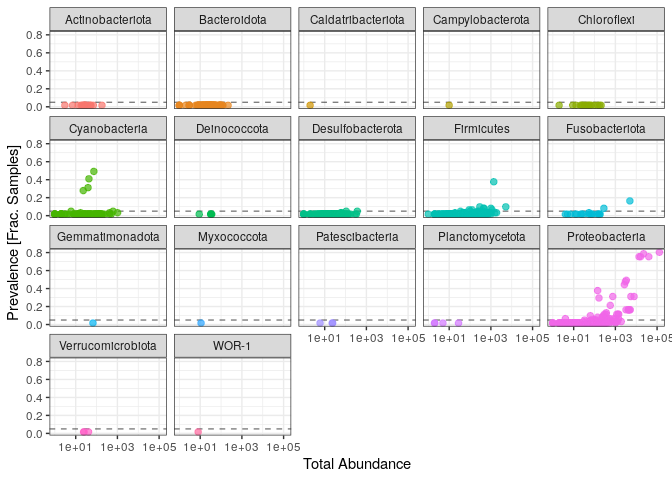
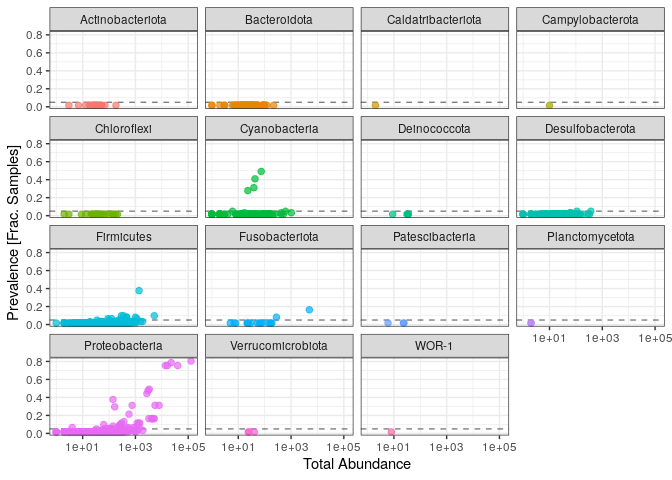
UP

diff --git a/CC3r.md b/CC3r.md
@@ -879,77 +879,78 @@ ps
 plot_richness(ps, x="Samples", measures=c("Shannon", "Simpson"), color="code_name")
 ```
 
-![](CC3r_files/figure-gfm/unnamed-chunk-28-1.png)<!-- --> \#### Les
-echantillons sont plutot regroupés, neanmoins ceux provenant des
-poissons sont légèrement a part des autres. Les populations bactiriennes
-sont pour la plupart communes mais varient légrement pour les poissons.
+![](CC3r_files/figure-gfm/unnamed-chunk-28-1.png)<!-- -->
+
+#### Les echantillons sont plutot regroupés, neanmoins ceux provenant des poissons sont légèrement a part des autres. Les populations bactiriennes sont pour la plupart communes mais varient légrement pour les poissons.
 
 ``` r
 ps.prop <- transform_sample_counts(ps, function(otu) otu/sum(otu))
 ord.jac.bray <- ordinate(ps.prop, method="PCoA", distance="bray")
-plot_ordination(ps.prop, ord.jac.bray, color="Samples", title="Bray PCoA")
+plot_ordination(ps.prop, ord.jac.bray, color="Samples", title="Bray Curtis PCoA: mise en évidence du type de prélèvement")
 ```
 
-![](CC3r_files/figure-gfm/unnamed-chunk-29-1.png)<!-- --> \#### Les
-echantillons provenant des poissons sont regroupés entre eux. Ceux
-provenant de la colonne d’eau et des sédiments sont entre eux et formes
-2 clusters distincts.
+![](CC3r_files/figure-gfm/unnamed-chunk-29-1.png)<!-- -->
+
+#### Les echantillons provenant des poissons sont regroupés entre eux. Ceux provenant de la colonne d’eau et des sédiments sont entre eux et formes 2 clusters distincts.
 
 ``` r
 ps.prop2 <- transform_sample_counts(ps, function(otu) otu/sum(otu))
 ord.bray.bray2 <- ordinate(ps.prop2, method="PCoA", distance="bray")
-plot_ordination(ps.prop2, ord.bray.bray2, color="Localisation", title="JBray Curtis PCoA", shape="Samples")
+plot_ordination(ps.prop2, ord.bray.bray2, color="Localisation", title="Bray Curtis PCoA: mise en évidence du type et localisation de prélèvement ", shape="Samples")
 ```
 
-![](CC3r_files/figure-gfm/unnamed-chunk-30-1.png)<!-- --> \#### La
-localisation d’echantillonage ne semble par etre un paramètre
-influcencant les populations.
+![](CC3r_files/figure-gfm/unnamed-chunk-30-1.png)<!-- -->
+
+#### La localisation d’echantillonage ne semble par etre un paramètre influcencant les populations.
 
 ``` r
 ps.prop2 <- transform_sample_counts(ps, function(otu) otu/sum(otu))
 ord.bray.bray2 <- ordinate(ps.prop2, method="PCoA", distance="bray")
-plot_ordination(ps.prop2, ord.bray.bray2, color="Oxygen", title="JBray Curtis PCoA", shape="Samples")
+plot_ordination(ps.prop2, ord.bray.bray2, color="Oxygen", title="Bray Curtis PCoA: mise en évidence du type de prélèvement et de l'oxygen", shape="Samples")
 ```
 
-![](CC3r_files/figure-gfm/unnamed-chunk-31-1.png)<!-- --> \#### Le taux
-d’oxygene ne semble par etre un paramètre influcencant les populations.
+![](CC3r_files/figure-gfm/unnamed-chunk-31-1.png)<!-- -->
+
+#### Le taux d’oxygene ne semble par etre un paramètre influcencant les populations.
 
 ``` r
 ps.prop3 <- transform_sample_counts(ps, function(otu) otu/sum(otu))
 ord.bray.bray3 <- ordinate(ps.prop3, method="PCoA", distance="bray")
-plot_ordination(ps.prop3, ord.bray.bray3, color="Samples", title="Bray Curtis PCoA", shape="Temperature")
+plot_ordination(ps.prop3, ord.bray.bray3, color="Samples", title="Bray Curtis PCoA: mise en évidence du type de prélèvement et de la température", shape="Temperature")
 ```
 
     ## Warning: The shape palette can deal with a maximum of 6 discrete values because
     ## more than 6 becomes difficult to discriminate; you have 8. Consider
     ## specifying shapes manually if you must have them.
 
-![](CC3r_files/figure-gfm/unnamed-chunk-32-1.png)<!-- --> \#### Echelle
-de temperature trop grande, interprétation avec \> et \< a 7 degré.
+![](CC3r_files/figure-gfm/unnamed-chunk-32-1.png)<!-- -->
+
+#### Echelle de temperature trop grande, interprétation avec \> et \< a 7 degré.
 
 ``` r
 ps.prop4 <- transform_sample_counts(ps, function(otu) otu/sum(otu))
 ord.bray.bray4 <- ordinate(ps.prop4, method="PCoA", distance="bray")
-plot_ordination(ps.prop4, ord.bray.bray4, color="Temp", title="Bray Curtis PCoA", shape="Samples")
+plot_ordination(ps.prop4, ord.bray.bray4, color="Temp", title="Bray Curtis PCoA: mise en évidence du type de prélèvement et de la température (>< 7°C)", shape="Samples")
 ```
 
-![](CC3r_files/figure-gfm/unnamed-chunk-33-1.png)<!-- --> \#### Les
-echantillons de temperatures inconnues se regreoupe avec ceux \<7. La
-variation de plus ou moins 7 degré ne semble pas avoir d’impact.
+![](CC3r_files/figure-gfm/unnamed-chunk-33-1.png)<!-- -->
+
+#### Les echantillons de temperatures inconnues se regreoupe avec ceux \<7. La variation de plus ou moins 7 degré ne semble pas avoir d’impact.
 
 ``` r
 ps.prop5 <- transform_sample_counts(ps, function(otu) otu/sum(otu))
 ord.bray.bray5 <- ordinate(ps.prop5, method="PCoA", distance="bray")
-plot_ordination(ps.prop5, ord.bray.bray5, color="pH", title="Bray Curtis PCoA", shape="Samples")
+plot_ordination(ps.prop5, ord.bray.bray5, color="pH", title="Bray Curtis PCoA: mise en évidence du type de prélèvement et du pH", shape="Samples")
 ```
 
-![](CC3r_files/figure-gfm/unnamed-chunk-34-1.png)<!-- --> \#### Le pH ne
-semble par etre un paramètre influcencant les populations.
+![](CC3r_files/figure-gfm/unnamed-chunk-34-1.png)<!-- -->
+
+#### Le pH ne semble par etre un paramètre influcencant les populations.
 
 ``` r
 ps.prop6 <- transform_sample_counts(ps, function(otu) otu/sum(otu))
 ord.bray.bray6 <- ordinate(ps.prop6, method="PCoA", distance="bray")
-plot_ordination(ps.prop6, ord.bray.bray6, color="Profondeur", title="Bray Curtis PCoA", shape="Samples")
+plot_ordination(ps.prop6, ord.bray.bray6, color="Profondeur", title="Bray Curtis PCoA: mise en évidence du type de prélèvement et de la profondeur", shape="Samples")
 ```
 
 ![](CC3r_files/figure-gfm/unnamed-chunk-35-1.png)<!-- -->
@@ -963,10 +964,9 @@ ps.top20 <- prune_taxa(top20, ps.top20)
 plot_bar(ps.top20, fill="Family") + facet_wrap(~Samples, scales="free_x")
 ```
 
-![](CC3r_files/figure-gfm/unnamed-chunk-36-1.png)<!-- --> \#### Les
-Vibrio sont la famille dominante chez les poissons, dans la colonne
-d’eau et les sédiments. L’abondance est généralement plus élevé chez les
-poissons et au plus faible dans les sédiments.
+![](CC3r_files/figure-gfm/unnamed-chunk-36-1.png)<!-- -->
+
+#### Les Vibrio sont la famille dominante chez les poissons, dans la colonne d’eau et les sédiments. L’abondance est généralement plus élevé chez les poissons et au plus faible dans les sédiments.
 
 ``` r
 top20 <- names(sort(taxa_sums(ps), decreasing=TRUE))[1:20]
@@ -975,9 +975,9 @@ ps.top20 <- prune_taxa(top20, ps.top20)
 plot_bar(ps.top20, x="pH", fill="Family") + facet_wrap(~Samples, scales="free_x")
 ```
 
-![](CC3r_files/figure-gfm/unnamed-chunk-37-1.png)<!-- --> \#### les pH
-extrêmes sembles inhibiter les croissances bactériennes, avec les
-meilleures abondance a pH 9.55-9.56.
+![](CC3r_files/figure-gfm/unnamed-chunk-37-1.png)<!-- -->
+
+#### les pH extrêmes sembles inhibiter les croissances bactériennes, avec les meilleures abondance a pH 9.55-9.56.
 
 ``` r
 top20 <- names(sort(taxa_sums(ps), decreasing=TRUE))[1:20]
@@ -986,9 +986,9 @@ ps.top20 <- prune_taxa(top20, ps.top20)
 plot_bar(ps.top20, x="Temp", fill="Family") + facet_wrap(~Samples, scales="free_x")
 ```
 
-![](CC3r_files/figure-gfm/unnamed-chunk-38-1.png)<!-- --> \#### Les
-abondances sembles plus fortes avec une température inférieure a 7
-degré.
+![](CC3r_files/figure-gfm/unnamed-chunk-38-1.png)<!-- -->
+
+#### Les abondances sembles plus fortes avec une température inférieure a 7 degré.
 
 ``` r
 top20 <- names(sort(taxa_sums(ps), decreasing=TRUE))[1:20]
@@ -999,6 +999,8 @@ plot_bar(ps.top20, x="Oxygen", fill="Family") + facet_wrap(~Samples, scales="fre
 
 ![](CC3r_files/figure-gfm/unnamed-chunk-39-1.png)<!-- -->
 
+#### Les abondances sembles legrement plus fortes avec un taux d’oxygne de 4-4.1.
+
 ``` r
 top20 <- names(sort(taxa_sums(ps), decreasing=TRUE))[1:20]
 ps.top20 <- transform_sample_counts(ps, function(OTU) OTU/sum(OTU))
@@ -1006,14 +1008,9 @@ ps.top20 <- prune_taxa(top20, ps.top20)
 plot_bar(ps.top20, x="Profondeur", fill="Family") + facet_wrap(~Samples, scales="free_x")
 ```
 
-![](CC3r_files/figure-gfm/unnamed-chunk-40-1.png)<!-- --> \#### pour les
-echantillons de la colonne d’eau et le sédiment, les abondances sont les
-memes en fonction de la profondeur, neanmoins il y a une variation de
-composition avec une présence de Peptostreptococcaceae de 0-1m de
-pronfondeur dans le sédiment. Dans la colonne d’eau présence
-d’Aeormonadaceae de 0-1 mètre de pronfeur, et plus grande abondance de
-Leptotrichiaceae a 7-10 mtre. Chez les poissons plus forte abondance à
-7-10 mtre de profondeur et présence de Streptococcaceae.
+![](CC3r_files/figure-gfm/unnamed-chunk-40-1.png)<!-- -->
+
+#### pour les echantillons de la colonne d’eau et le sédiment, les abondances sont les memes en fonction de la profondeur, neanmoins il y a une variation de composition avec une présence de Peptostreptococcaceae de 0-1m de pronfondeur dans le sédiment. Dans la colonne d’eau présence d’Aeormonadaceae de 0-1 mètre de pronfeur, et plus grande abondance de Leptotrichiaceae a 7-10 mtre. Chez les poissons plus forte abondance à 7-10 mtre de profondeur et présence de Streptococcaceae.
 
 ``` r
 top20 <- names(sort(taxa_sums(ps), decreasing=TRUE))[1:20]
@@ -1024,13 +1021,15 @@ plot_bar(ps.top20, x="Localisation", fill="Family") + facet_wrap(~Samples, scale
 
 ![](CC3r_files/figure-gfm/unnamed-chunk-41-1.png)<!-- -->
 
-#### Les poissons sotn echantillonés uniquement aux localisations Edremit et Gevas-Inkoy. Les abondances bactériennes pour les eaux et les sédiments sont relativements les memes. Uniquement les echantillons provenant de poisson sont largement suppérieurs en terme d’abondance.
+#### Les poissons sont echantillonés uniquement aux localisations Edremit et Gevas-Inkoy. Les abondances bactériennes pour les eaux et les sédiments sont relativements les memes. Uniquement les echantillons provenant de poisson sont largement suppérieurs en terme d’abondance.
 
 ### Conclusion
 
 #### L’alpha et la Beta diversité ne sont réellement influcencé que par l’endroit d’échantillon: poisson, eau ou sédiment. Avec un regroupement précis des echantillon fish et une disperssion groupé de ceux d’eaux et sédiments. Aucun relevé représentatif d’influence du pH, de l’oxygne, de la température ou de la profondeur.
 
 #### Les Vibrio sont majoritaire en toutes conditions. Les plus grandes abondances de microorganismes sont ceux echantillonés dans les poissons, cela peut s’expliquer par l’intéraction des bactéries avec l’organisme hote, et notamment par la présence des bactéries intestinales. Les vibrio sont en effet une famille de bastéries typiques de l’eaux de mer, des estuaires et des intestins des animaux marins. Ceci explique donc leurs présence dans nos echantillons, car ce sont bien des lacs salés qui ont ete analysés.
+
+#### Du fait de l’impossibilité d’overlap les séquences, et de l’utilisation de ‘justConcatenate’, il est possible que ces résultats ne soit pas exacte. Il aurait peut etre été interessant de séquencer une région de 16S plus grande pour possiblement éviter ce soucis. (Je n’ai pas trouvé la solution en terme de code pour regler ceci)
 
 # TEST
 
@@ -1053,22 +1052,20 @@ plyr::ddply(prevdf, "Phylum", function(df1){cbind(mean(df1$Prevalence),sum(df1$P
 
     ##                Phylum        1    2
     ## 1    Actinobacteriota 1.000000   17
-    ## 2        Bacteroidota 1.000000   89
+    ## 2        Bacteroidota 1.000000   88
     ## 3  Caldatribacteriota 1.000000    1
     ## 4    Campylobacterota 1.000000    1
-    ## 5         Chloroflexi 1.000000   16
-    ## 6       Cyanobacteria 1.921569  196
+    ## 5         Chloroflexi 1.000000   20
+    ## 6       Cyanobacteria 1.930693  195
     ## 7        Deinococcota 1.000000    5
-    ## 8    Desulfobacterota 1.040000  156
-    ## 9          Firmicutes 1.266055  414
-    ## 10     Fusobacteriota 1.736842   33
-    ## 11    Gemmatimonadota 1.000000    1
-    ## 12        Myxococcota 1.000000    1
-    ## 13    Patescibacteria 1.000000    3
-    ## 14    Planctomycetota 1.000000    4
-    ## 15     Proteobacteria 2.305857 1063
-    ## 16  Verrucomicrobiota 1.000000    3
-    ## 17              WOR-1 1.000000    1
+    ## 8    Desulfobacterota 1.041958  149
+    ## 9          Firmicutes 1.286154  418
+    ## 10     Fusobacteriota 1.764706   30
+    ## 11    Patescibacteria 1.000000    3
+    ## 12    Planctomycetota 1.000000    2
+    ## 13     Proteobacteria 2.302832 1057
+    ## 14  Verrucomicrobiota 1.000000    3
+    ## 15              WOR-1 1.000000    1
 
 ``` r
 ps1 = subset_taxa(ps)
@@ -1076,10 +1073,10 @@ ps1
 ```
 
     ## phyloseq-class experiment-level object
-    ## otu_table()   OTU Table:         [ 1201 taxa and 61 samples ]
+    ## otu_table()   OTU Table:         [ 1186 taxa and 61 samples ]
     ## sample_data() Sample Data:       [ 61 samples by 8 sample variables ]
-    ## tax_table()   Taxonomy Table:    [ 1201 taxa by 6 taxonomic ranks ]
-    ## refseq()      DNAStringSet:      [ 1201 reference sequences ]
+    ## tax_table()   Taxonomy Table:    [ 1186 taxa by 6 taxonomic ranks ]
+    ## refseq()      DNAStringSet:      [ 1186 reference sequences ]
 
 ``` r
 prevdf1 = subset(prevdf, Phylum %in% get_taxa_unique(ps1, "Phylum"))
